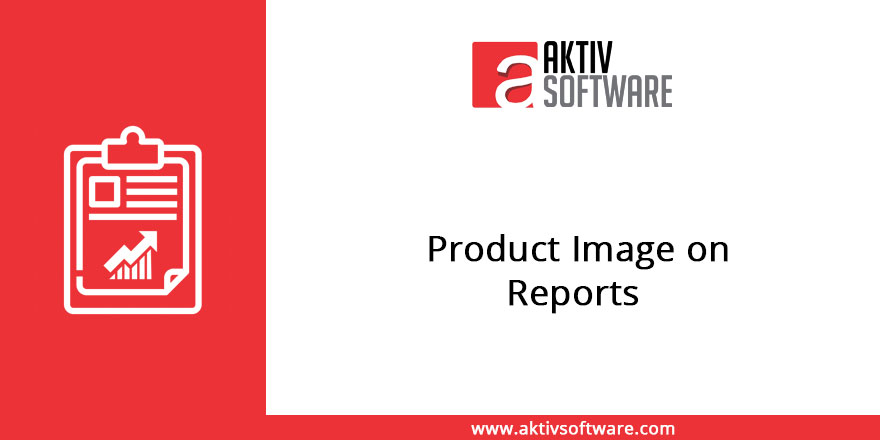
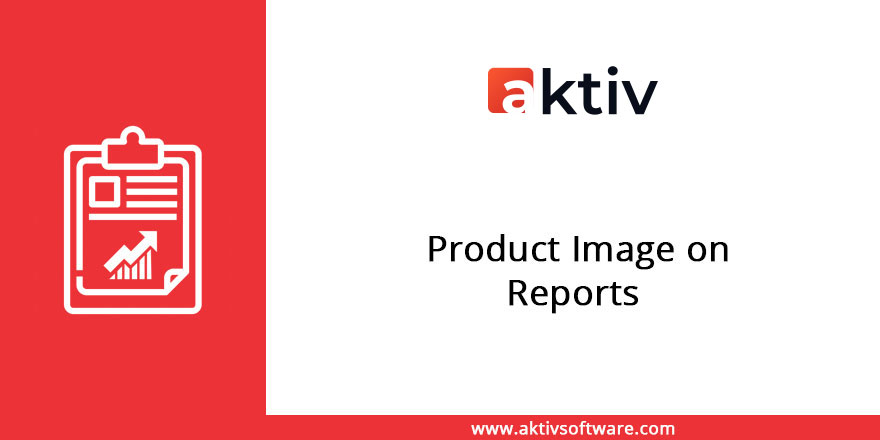
[ADD] change image in 9.0

Changed region(s): [[0.5216, 0.0886, 0.767, 0.2659]]

diff --git a/product_image_on_reports/static/description/index.html b/product_image_on_reports/static/description/index.html
@@ -55,7 +55,7 @@
 	<div class="oe_row oe_spaced">
         <h2 class="oe_slogan">
             <a href="http://aktivsoftware.com/" target="new">
-                <img src="http://aktivsoftware.com/wp-content/uploads/2018/01/logo-1.png"/>
+                <img src="aktiv-logo.png"/>
             </a>
             <br/>
             <a href="mailto:sales@aktivsoftware.com" style="color: #000000 !important;">
